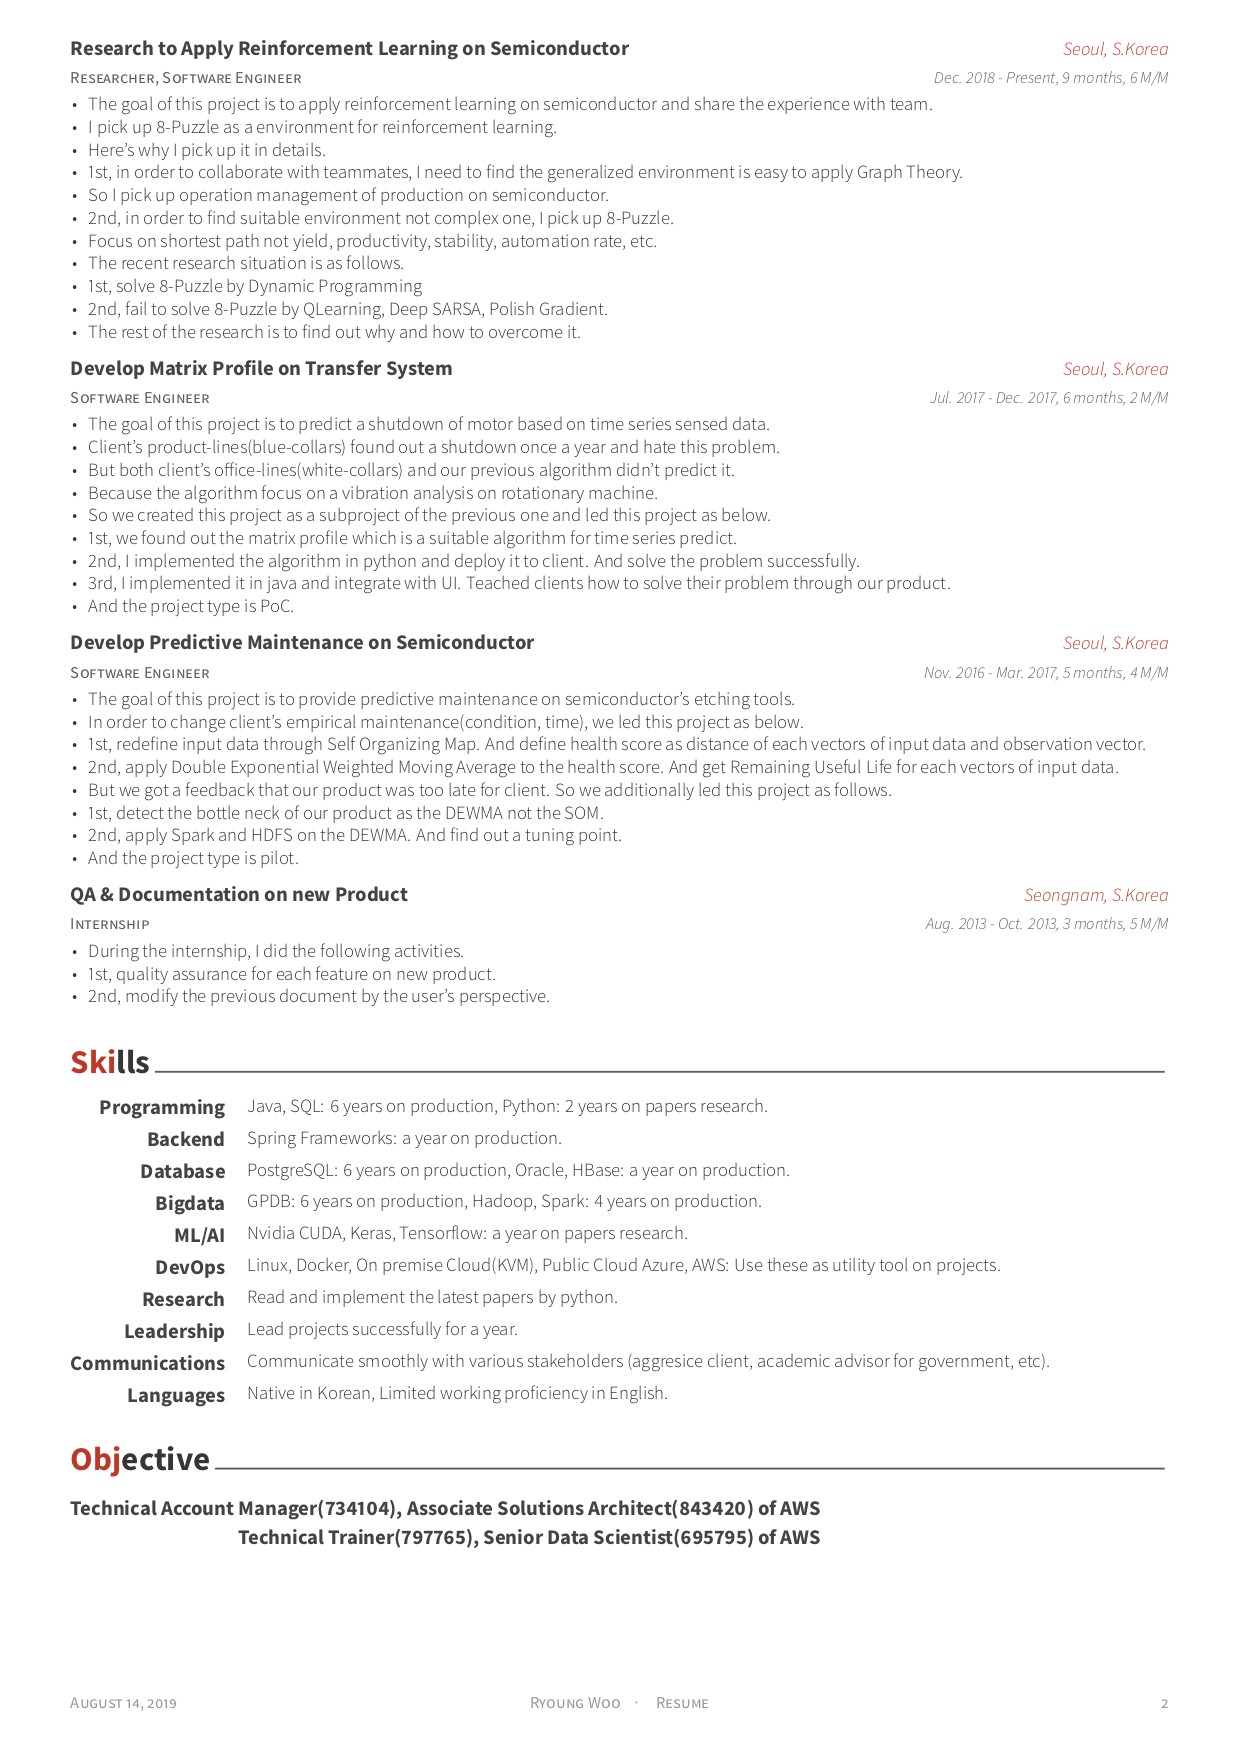
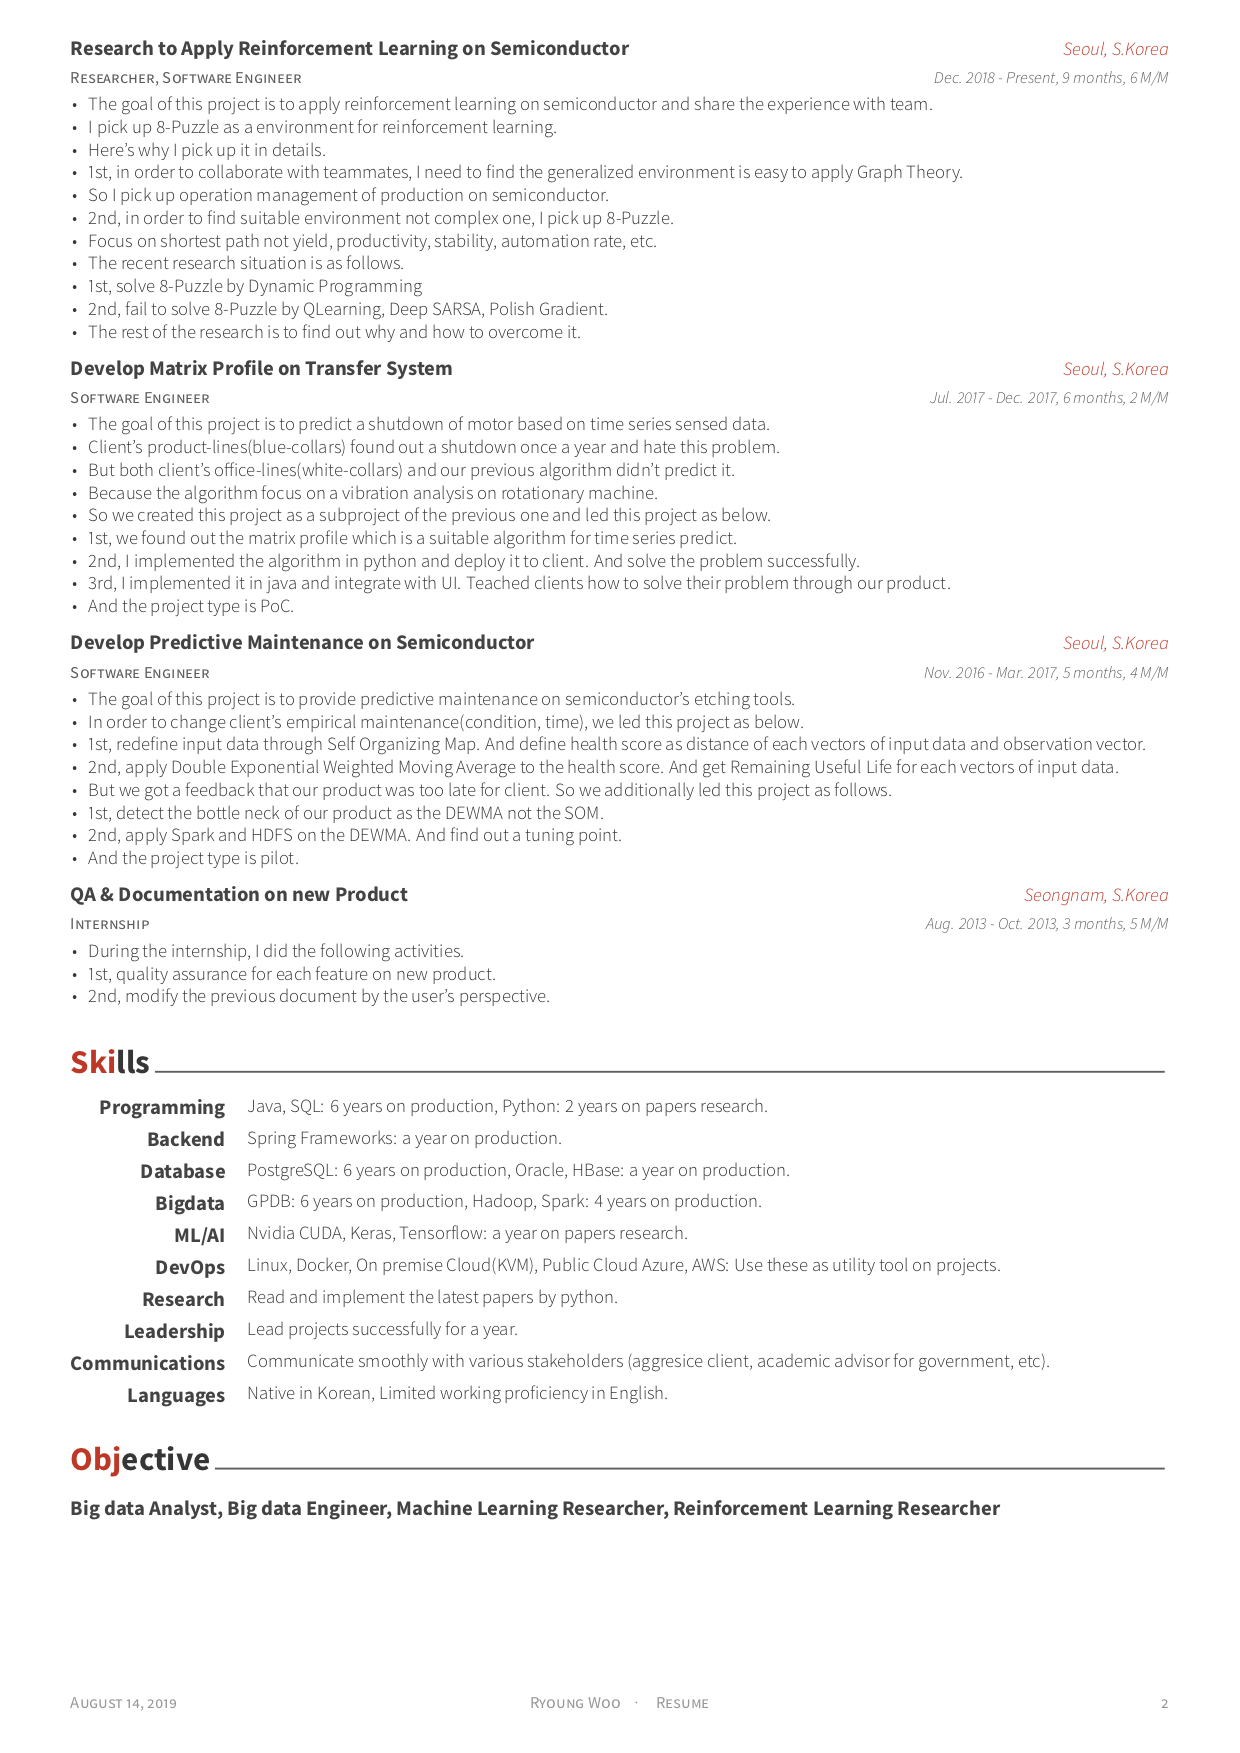
#23-modify-objective-2 ``` modified:   examples/resume-0.png modified:   examples/resume-1.png modified:   examples/resume.pdf modified:   examples/resume/objective.tex ```

Changed region(s): [[0.0613, 0.8317, 0.7968, 0.8933]]

diff --git a/examples/resume/objective.tex b/examples/resume/objective.tex
@@ -11,10 +11,8 @@
 
 %---------------------------------------------------------
   \cvskill
-    {Technical Account Manager(734104), Associate Solutions Architect(843420) of AWS}
+    {Big data Analyst, Big data Engineer, Machine Learning Researcher, Reinforcement Learning Researcher}
     {}
 %---------------------------------------------------------
-  \cvskill
-    {Technical Trainer(797765), Senior Data Scientist(695795) of AWS}
-    {}
+
 \end{cvskills}
